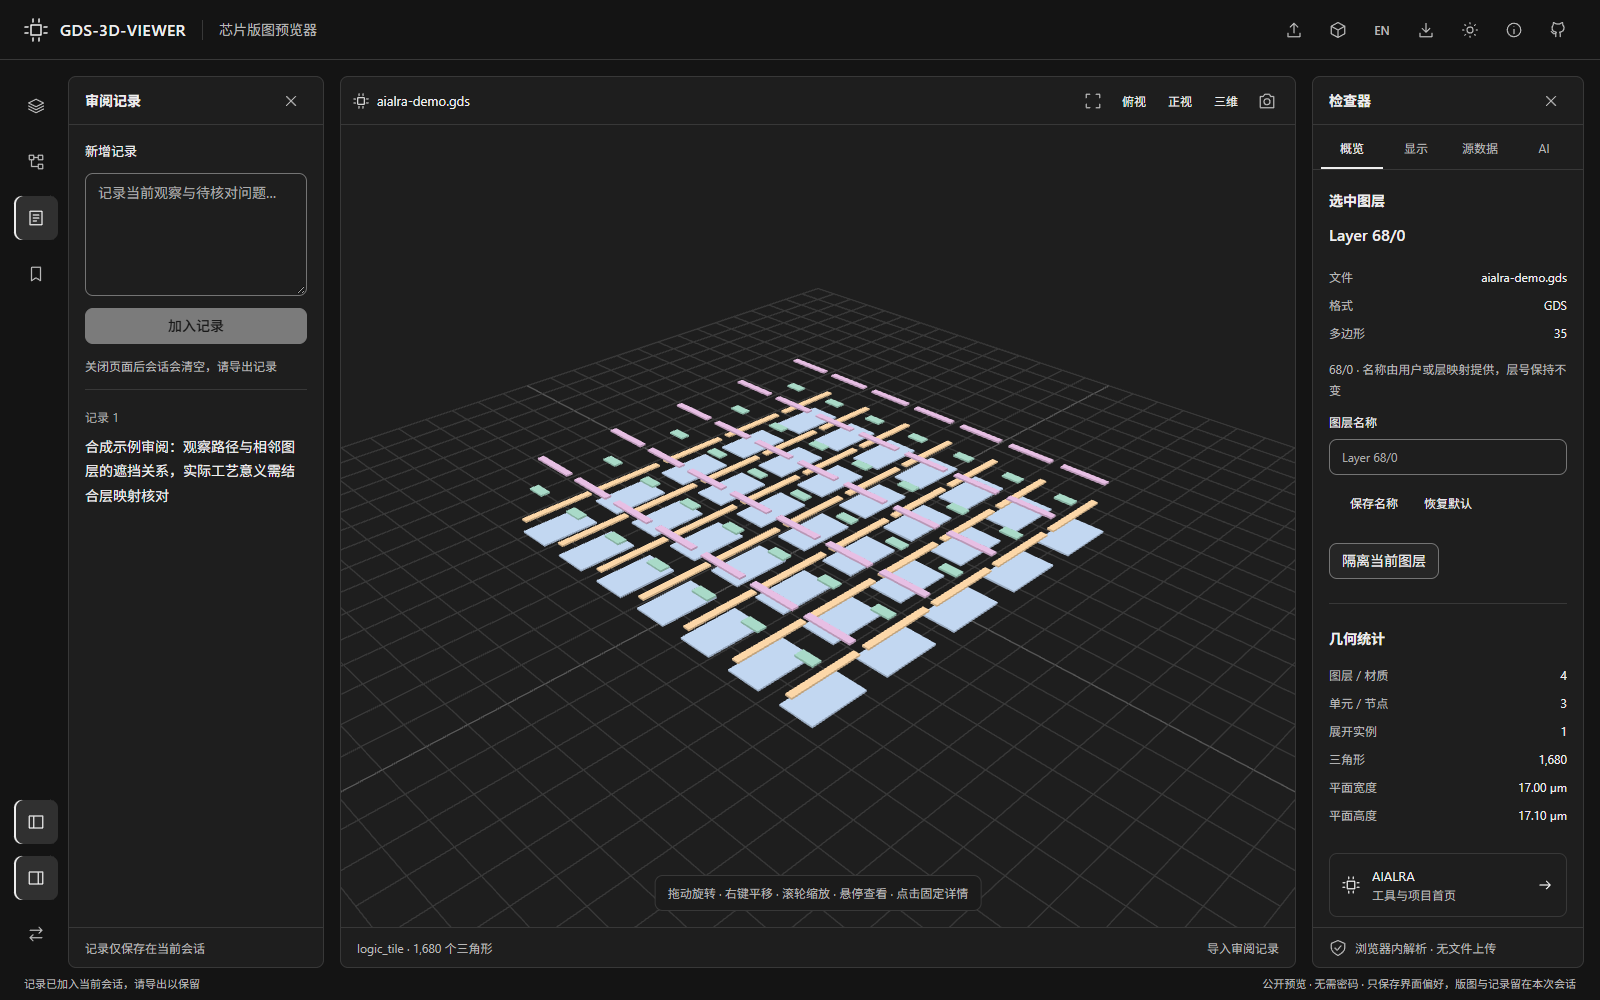
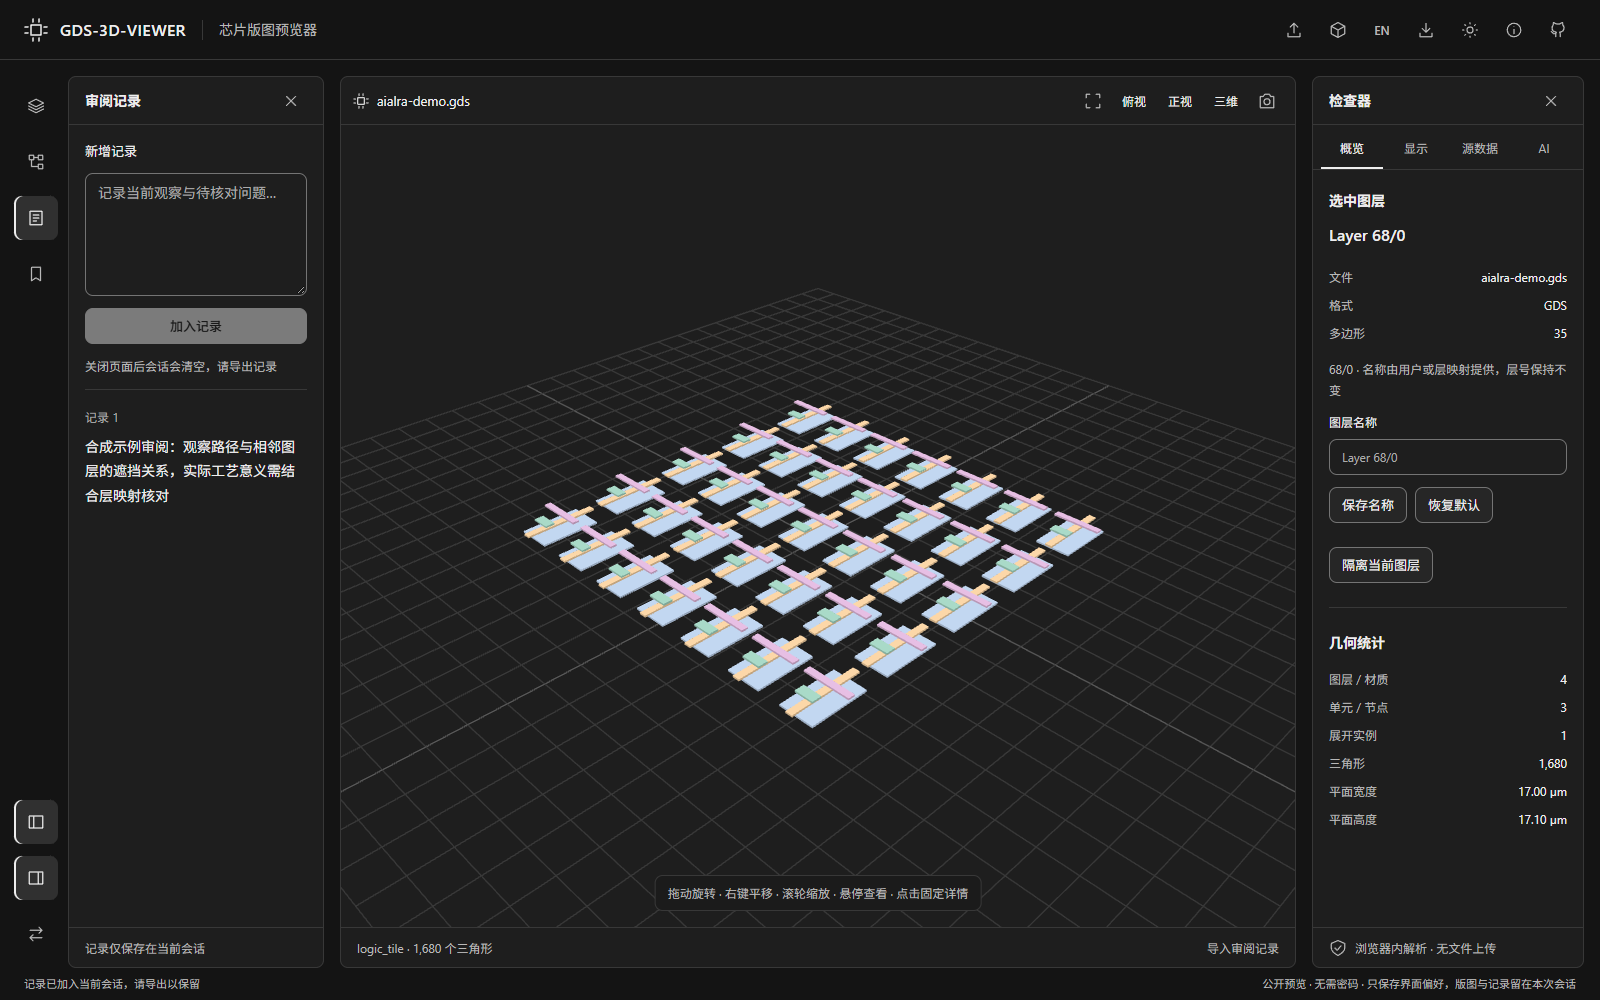
Polish sidebar controls and refresh product showcase

diff --git a/apps/web/src/public/Workbench.tsx b/apps/web/src/public/Workbench.tsx
@@ -651,9 +651,9 @@ export default function Workbench() {
         {panel === "layers" && (
           <>
             <div className="group-actions">
-              <button className="text-button quiet" disabled={!layout || layout.format !== "gds"} onClick={() => mappingInput.current?.click()}>{t("导入层映射")}</button>
+              <button className="text-button" disabled={!layout || layout.format !== "gds"} onClick={() => mappingInput.current?.click()}>{t("导入层映射")}</button>
               <button
-                className="text-button quiet"
+                className="text-button"
                 onClick={() =>
                   setVisible(layout?.layers.map((l) => l.id) ?? [])
                 }
@@ -661,7 +661,7 @@ export default function Workbench() {
               >
                  {t("显示全部")} </button>
               <button
-                className="text-button quiet"
+                className="text-button"
                 onClick={() => setVisible([])}
                 disabled={!layout}
               >
@@ -696,7 +696,7 @@ export default function Workbench() {
                     </small>
                   </button>
                   <button
-                    className="isolate"
+                    className="icon-button isolate"
                     title={t("只看 {{0}}", {"0": layer.name})}
                     aria-label={t("只看 {{0}}", {"0": layer.name})}
                     onClick={() => {
@@ -904,11 +904,11 @@ export default function Workbench() {
             <div className="layer-rename">
               <p className="muted">{selectedLayer.id} · {t("名称由用户或层映射提供，层号保持不变")}</p>
               <label>{t("图层名称")}<input aria-label={t("图层名称")} maxLength={128} value={rename?.id === selectedLayer.id ? rename.value : layerNames[selectedLayer.id] ?? ""} placeholder={selectedLayer.name} onChange={(e) => setRename({ id: selectedLayer.id, value: e.target.value })} /></label>
-              <div className="group-actions"><button className="text-button quiet" onClick={() => {
+              <div className="group-actions"><button className="text-button" onClick={() => {
                 const value = rename?.id === selectedLayer.id ? rename.value.trim() : layerNames[selectedLayer.id] ?? "";
                 try { const names = value ? validateLayerNames({ ...layerNames, [selectedLayer.id]: value }) : Object.fromEntries(Object.entries(layerNames).filter(([id]) => id !== selectedLayer.id)); setLayerNames(names); setRename(null); }
                 catch (e) { setError(e instanceof Error ? e.message : "图层映射无法读取"); }
-              }}>{t("保存名称")}</button><button className="text-button quiet" onClick={() => { setLayerNames(Object.fromEntries(Object.entries(layerNames).filter(([id]) => id !== selectedLayer.id))); setRename(null); }}>{t("恢复默认")}</button></div>
+              }}>{t("保存名称")}</button><button className="text-button" onClick={() => { setLayerNames(Object.fromEntries(Object.entries(layerNames).filter(([id]) => id !== selectedLayer.id))); setRename(null); }}>{t("恢复默认")}</button></div>
             </div>
           )}
           {selectedLayer && (
@@ -1042,18 +1042,6 @@ export default function Workbench() {
         <div role="tabpanel" id="inspector-panel-ai" aria-labelledby="inspector-tab-ai" hidden={inspectorTab !== "ai"}>
         <ExplanationPanel layout={layout} object={selectedObject?.feature} layerNames={layerNames} />
         </div>
-        <a
-          className="portal-link"
-          href="https://aialra.online"
-          target="_blank"
-          rel="noreferrer"
-        >
-          <Icon name="chip" />
-          <span>
-            AIALRA<span> {t("工具与项目首页")} </span>
-          </span>
-          <Icon name="arrow" />
-        </a>
       </div>
       <div className="pane-foot">
         <Icon name="shield" />

diff --git a/apps/web/src/public/workbench.css b/apps/web/src/public/workbench.css
@@ -368,12 +368,30 @@ button svg {
 .group-actions {
   display: flex;
   gap: 8px;
-  padding: 0 12px 12px;
+  padding: 0;
+  flex-wrap: wrap;
 }
-.group-actions .text-button {
-  font-size: 12px;
-  padding: 4px 8px;
-  min-height: 32px;
+.navigation-pane .group-actions {
+  padding: 0 16px 16px;
+}
+.navigation-pane .text-button,
+.inspector-pane .text-button {
+  min-height: 36px;
+  padding: 7px 12px;
+  font-size: 13px;
+  line-height: 20px;
+  white-space: normal;
+  max-width: 100%;
+}
+.inspector-content section > .text-button {
+  margin-top: 12px;
+}
+.inspector-content .text-button + .muted,
+.inspector-content .text-button + dl {
+  margin-top: 12px;
+}
+.inspector-content .muted + dl {
+  margin-top: 8px;
 }
 .layer-list {
   padding: 0 8px 16px;
@@ -423,13 +441,15 @@ button svg {
   margin-top: 3px;
 }
 .isolate {
-  width: 28px;
+  width: 32px;
   height: 32px;
+  min-height: 32px;
+  padding: 0;
   display: flex;
   align-items: center;
   justify-content: center;
   color: var(--secondary);
-  border-radius: 4px;
+  border-radius: 8px;
   flex: none;
 }
 .isolate:hover {
@@ -552,27 +572,6 @@ input[type="range"] {
 }
 .inspector-content .muted + .muted {
   margin-top: 12px;
-}
-.portal-link {
-  border: 1px solid var(--line);
-  border-radius: 8px;
-  display: flex;
-  gap: 12px;
-  padding: 12px;
-  align-items: center;
-  text-decoration: none;
-}
-.portal-link:hover {
-  background: var(--hover);
-}
-.portal-link > span {
-  flex: 1;
-  font-size: 13px;
-}
-.portal-link > span > span {
-  display: block;
-  font-size: 12px;
-  color: var(--secondary);
 }
 .canvas-head {
   justify-content: space-between;
@@ -1084,6 +1083,8 @@ input[type="range"] {
 @media (pointer: coarse) {
   .top-actions .icon-button,
   .text-button,
+  .navigation-pane .text-button,
+  .inspector-pane .text-button,
   .cell-row,
   .isolate {
     min-height: 44px;
@@ -1134,8 +1135,8 @@ input[type="range"] {
 .explanation-panel h3 { display:flex; align-items:center; gap:8px; }
 .explanation-panel label { display:flex; flex-direction:column; gap:6px; margin:12px 0; font-size:12px; }
 .explanation-panel input:not([type=checkbox]), .explanation-panel select { width:100%; min-width:0; height:36px; padding:0 9px; border:1px solid var(--inputLine); border-radius:6px; background:var(--raised); color:var(--text); font:inherit; }
-.explanation-panel .consent-row { flex-direction:row; align-items:flex-start; line-height:1.6; }
-.explanation-panel .consent-row input { margin-top:4px; flex-shrink:0; }
+.explanation-panel .consent-row { flex-direction:row; align-items:flex-start; gap:10px; line-height:1.6; }
+.explanation-panel .consent-row input { margin:2px 0 0; width:16px; height:16px; padding:0; flex-shrink:0; }
 .explanation-panel details, .object-inspection details, .missing-references { margin:12px 0; font-size:12px; }
 .explanation-panel summary, .object-inspection summary, .missing-references summary { cursor:pointer; line-height:1.7; }
 .request-preview pre { max-height:260px; overflow:auto; padding:10px; background:var(--raised); border-radius:6px; font-size:11px; white-space:pre-wrap; overflow-wrap:anywhere; }
@@ -1185,7 +1186,6 @@ input[type="range"] {
 .inspector-tabs button[aria-selected=true] { color: var(--text); border-bottom-color: var(--text); }
 .layer-rename { margin: 12px 0; }
 .layer-rename label, .source-filter { display: flex; flex-direction: column; gap: 8px; margin: 12px 0; font-size: 12px; }
-.group-actions { flex-wrap: wrap; }
 .source-record { padding: 10px 0; border-bottom: 1px solid var(--line); overflow-wrap: anywhere; font-size: 12px; }
 .source-record summary { cursor: pointer; }
 .source-record dl { margin-top: 12px; }

diff --git a/docs/assets/readme/PROVENANCE.md b/docs/assets/readme/PROVENANCE.md
@@ -18,6 +18,6 @@ Captured on 2026-10-07 (America/Los_Angeles) using the actual GDS-3D-VIEWER prod
 
 Reproduce by building the public entry, loading its sample, selecting `logic_tile`, changing view/layer separation and using the inspector and review panels. The AI configuration image shows an outgoing summary and an empty password field. The Markdown image uses a Playwright-intercepted response whose cell name and counts come from that synthetic summary; the response and captions explicitly label it as a format demonstration, and the synthetic key is cleared before capture. No image claims a real model result. Heights are illustrative; screenshots do not establish physical thickness or electrical connectivity.
 
-The current captures include the unified toolbar, EN/ZH control after the sample icon, GitHub icon after Help, inspector subtabs and the layer-name editor. Display controls and AI examples select their corresponding inspector tabs. Source metadata tests use a separate original synthetic text/property fixture, which is never presented as a real chip design.
+The current captures include the unified toolbar, EN/ZH control after the sample icon, GitHub icon after Help, inspector subtabs and the layer-name editor. Sidebar actions use consistent borders, heights and spacing; the former portal card is removed from the inspector and remains a text link in Help. Display controls and AI examples select their corresponding inspector tabs. The exploded example uses separation 10 and an actual lower orbit-camera angle on the four-layer `logic_tile`; subsequent captures reset separation to zero. Source metadata tests use a separate original synthetic text/property fixture, which is never presented as a real chip design.
 
 Earlier `gds-3d-viewer-cockpit.png` depicts the retained local API workflow; `gds-3d-viewer-hero.svg` is its historical illustration. Neither is current public UI evidence. The template archive/source project is excluded; only the owner's requested copied design parameters underpin the implemented interface. Dependency notices are preserved.

diff --git a/docs/agent-locks.md b/docs/agent-locks.md
@@ -2,6 +2,7 @@
 
 | path | owner | purpose | start | eta | status |
 |------|-------|---------|-------|-----|--------|
+| README.md; README.en.md; docs/coordination.md | main | sidebar spacing, consistent actions, refreshed screenshots and portal card | 2026-10-07 America/Los_Angeles | current turn | released |
 | README.md; README.en.md; docs/coordination.md | main | unified toolbar, inspector tabs, layer aliases and GDS source metadata | 2026-10-07 America/Los_Angeles | current turn | released |
 | packages/shared/types.ts | frontend | add shared scene contracts for cockpit MVP | 2026-04-12 18:35 UTC | 2026-04-12 18:50 UTC | released |
 | packages/shared/manifest.schema.json | backend | add canonical manifest schema and presets | 2026-04-12 18:09 UTC | 2026-04-12 18:40 UTC | released |
@@ -11,6 +12,7 @@
 | README.md; README.en.md; packages/shared/manifest.schema.json; .github/workflows/ci.yml; docs/coordination.md | main | GDS-3D-VIEWER naming, bilingual public UI and safe Markdown explanation rendering | 2026-10-07 America/Los_Angeles | current turn | released |
 
 - Frontend shared contract now covers scene state, notes, explain, operator, diff payloads, and optional backend transport fields.
+- Sidebar actions now share sizing and spacing, and the portal entry is a Help text link. Refreshed bilingual screenshots retain the existing scene, review and ephemeral-key contracts.
 - Backend released the manifest schema lock after adding presets and layer provenance fields required by the API.
 - Documentation released the README lock after adding aligned Chinese and English landing pages, verified screenshots, explicit test evidence, deployment placeholders, and security limitations.
 

diff --git a/README.en.md b/README.en.md
@@ -73,9 +73,9 @@ Figure 5 Inspect smaller cells independently, including designs exceeding the fu
 
 <div align="center">
 
-![Separated layers reveal occlusion; display heights are not physical thicknesses](docs/assets/readme/exploded-layers.png)
+![Layer separation set to 10 with a lower viewing angle clearly reveals four layers; display heights are not physical thicknesses](docs/assets/readme/exploded-layers.png)
 
-Figure 6 Separated layers reveal occlusion; display heights are not physical thicknesses
+Figure 6 Layer separation set to 10 with a lower viewing angle clearly reveals four layers; display heights are not physical thicknesses
 
 </div>
 
@@ -213,7 +213,10 @@ Follow [`AGENTS.md`](AGENTS.md) before changing shared contracts
 
 Cloudflare proxies the public entry. The origin serves static files only, without an upload API, legacy backend or shared sessions
 Normal website requests still reach the site; optional explanations send confirmed summaries to the selected model provider
-The viewer is listed on the [AIALRA portal](https://aialra.online), and its separate toolbar source icon opens this repository
+
+- The project card on the [AIALRA portal](https://aialra.online) reflects the current features and live entry
+- The separate toolbar source icon opens this repository
+- Within the viewer, the portal entry is retained only as a text link in Help
 
 No project open-source license has been declared; public visibility alone does not grant unrestricted redistribution
 The build retains [third-party notices](apps/web/public-static/NOTICE.txt)

diff --git a/README.md b/README.md
@@ -74,9 +74,9 @@
 
 <div align="center">
 
-![分层展示帮助观察遮挡关系，显示高度不代表真实工艺厚度](docs/assets/readme/exploded-layers.png)
+![将层间距调到 10，以较低视角清楚观察四层分离，显示高度不代表真实工艺厚度](docs/assets/readme/exploded-layers.png)
 
-图 6 分层展示帮助观察遮挡关系，显示高度不代表真实工艺厚度
+图 6 将层间距调到 10，以较低视角清楚观察四层分离，显示高度不代表真实工艺厚度
 
 </div>
 
@@ -214,7 +214,10 @@ npm run build:legacy
 
 公开入口由 Cloudflare 代理，源站仅提供静态文件，不暴露上传接口、原有后端或共享会话
 主页正常访问仍会请求站点服务；可选讲解会向用户确认的模型服务发送摘要
-入口也已加入 [AIALRA 工具首页](https://aialra.online)，工作台顶部的独立源码图标链接到本仓库
+
+- [AIALRA 工具首页](https://aialra.online) 的项目卡片同步当前功能与在线入口
+- 工作台顶部的独立源码图标链接到本仓库
+- 查看器内的工具首页入口仅保留为使用说明中的文字链接
 
 仓库尚未声明项目开源许可证，公开可见不等于获得任意再分发授权
 随公开构建提供的第三方声明见 [`NOTICE.txt`](apps/web/public-static/NOTICE.txt)

diff --git a/docs/coordination.md b/docs/coordination.md
@@ -1,5 +1,7 @@
 # Coordination Log
 
+Sidebar presentation follow-up (2026-10-07 America/Los_Angeles): `apps/web/src/public/Workbench.tsx` and `workbench.css` unify action controls and remove the inspector portal card; `README.md`, `README.en.md` and eleven synthetic product screenshots reflect that UI and a clearer four-layer separation example. The AIALRA portal card retains its destination with updated bilingual feature text. No geometry, review schema, provider transport or backend contract changes.
+
 | time | owner | note |
 |------|-------|------|
 | 2026-04-12 18:10 UTC | main | Initialized repo skeleton, planning docs, and shared collaboration contract. |
